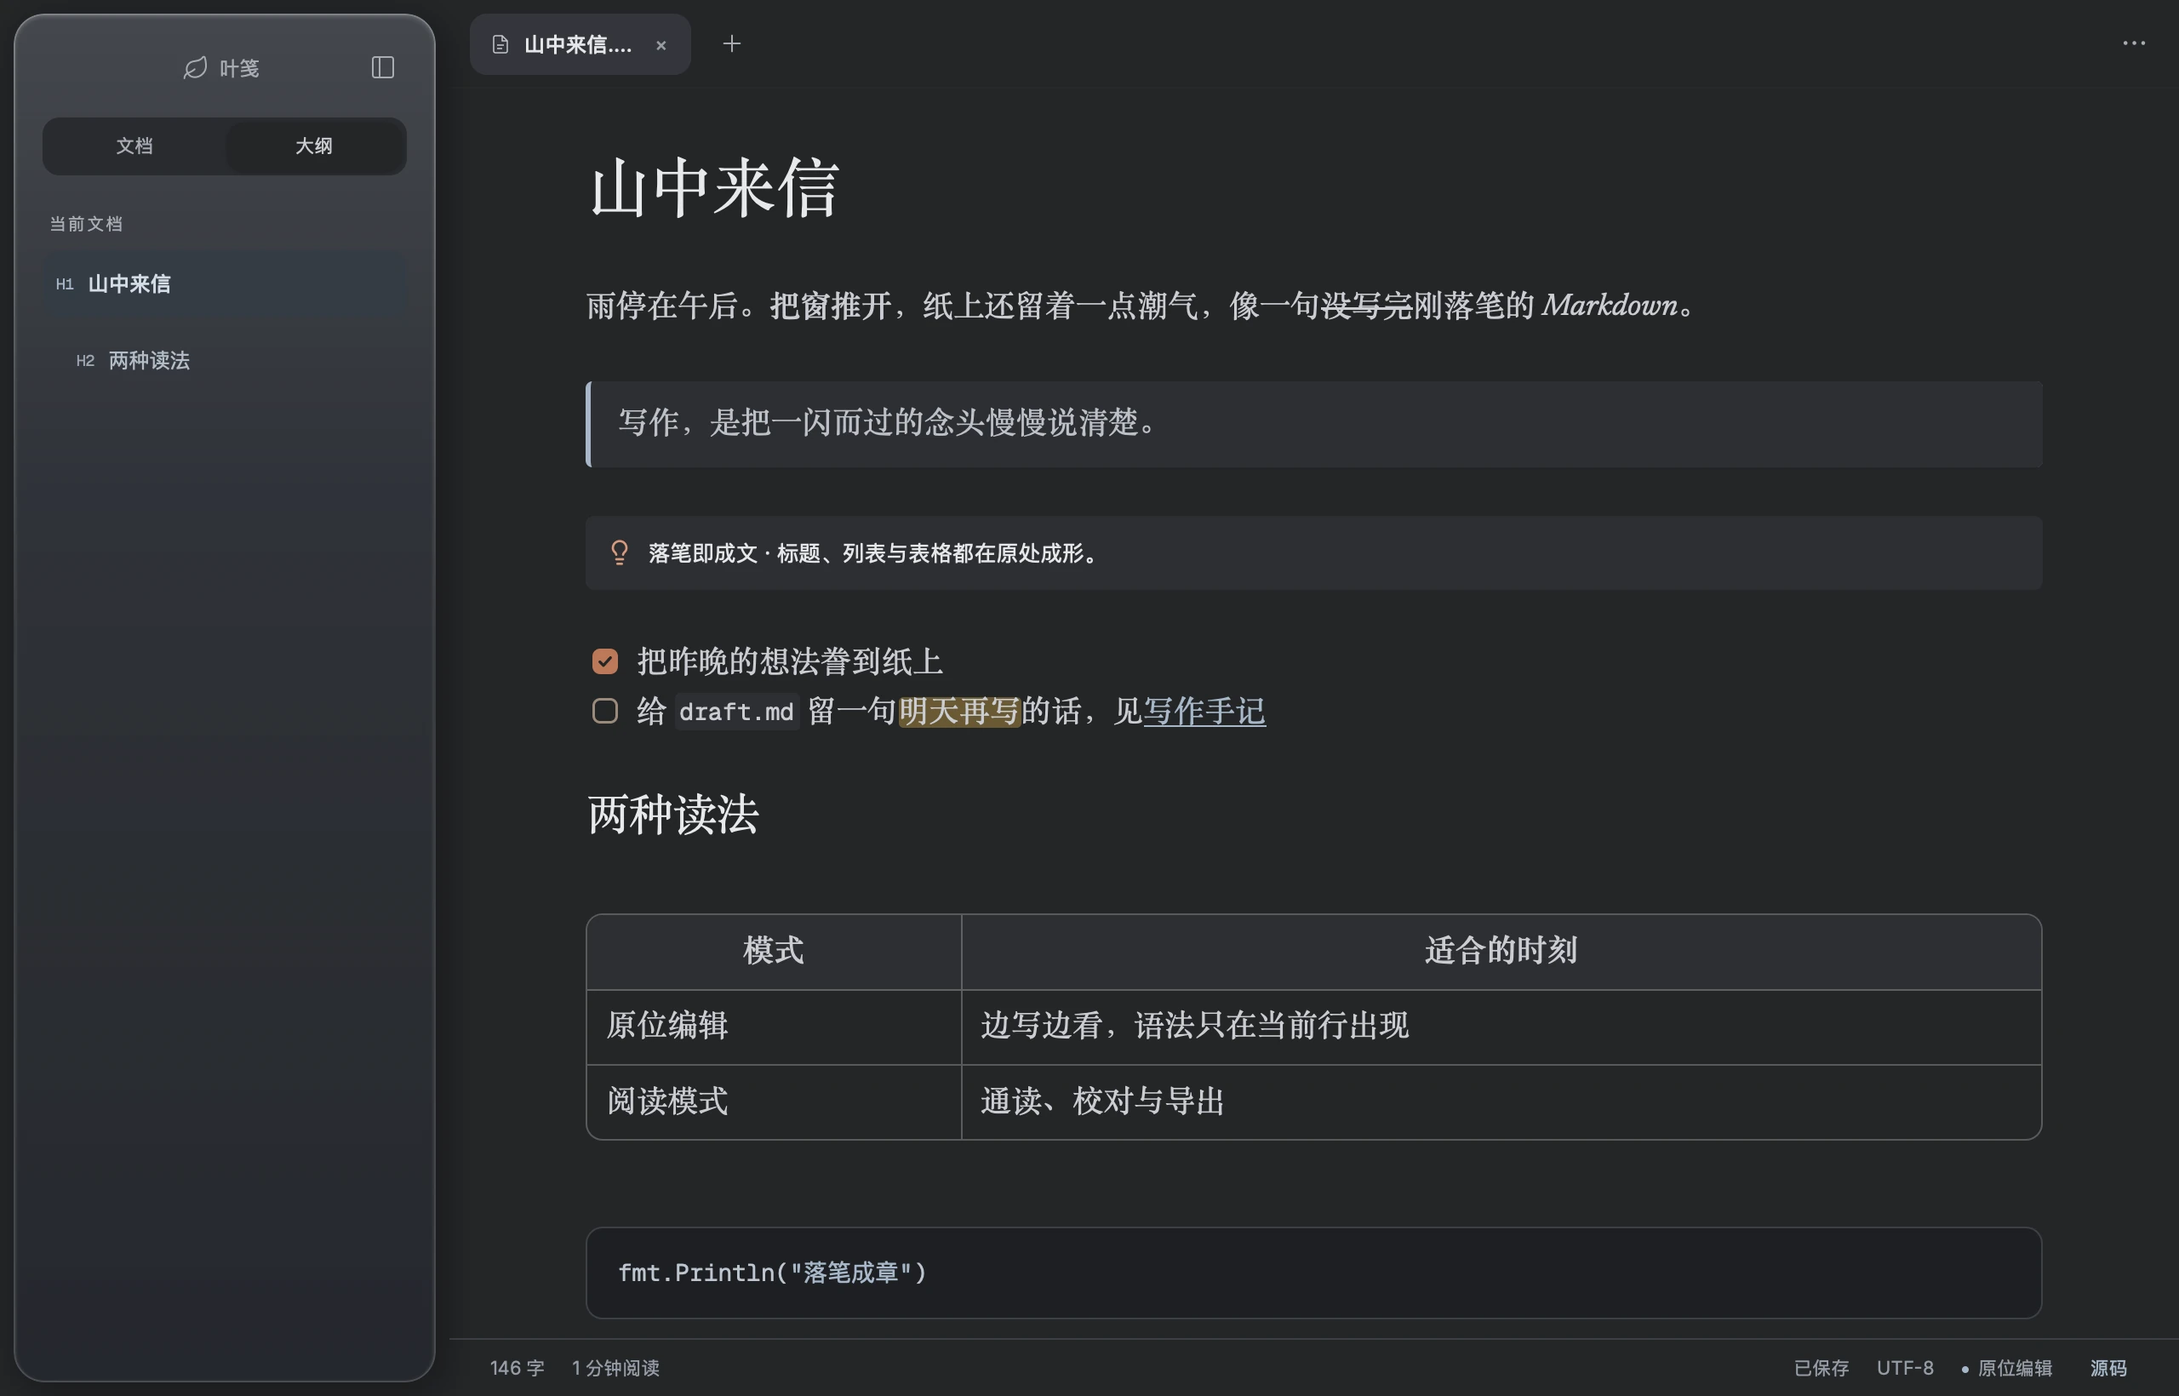
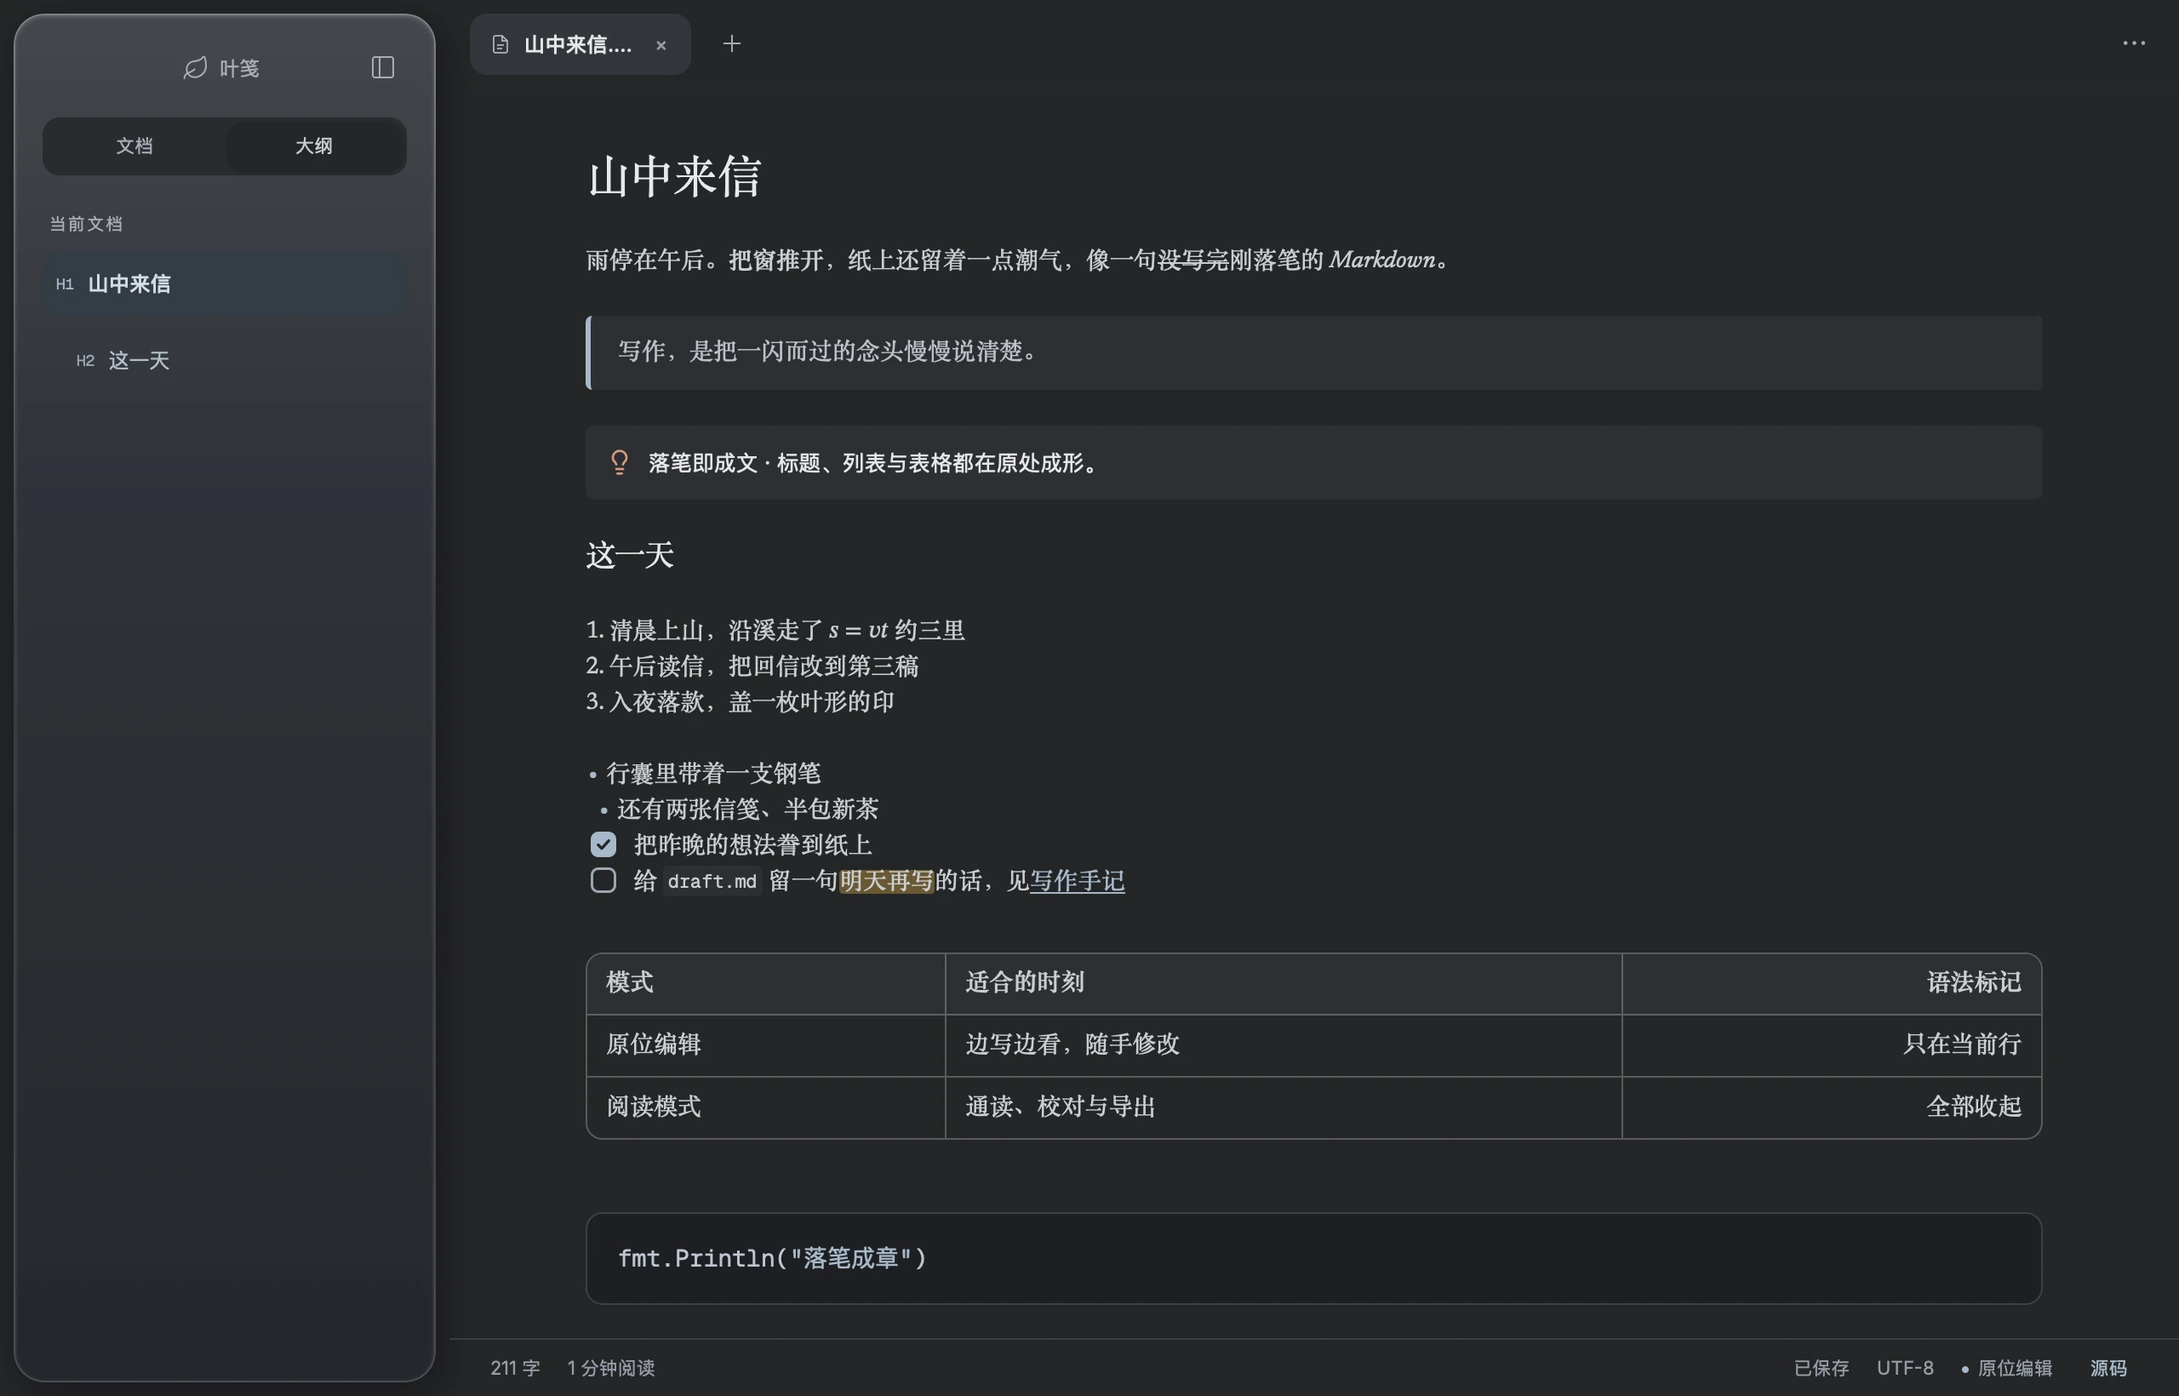
feat: 官网首页增加落叶与滚动动效并统一浅深主题标题字号
- 首屏增加飘落的叶片、枝条轻摆，应用窗口随滚动由后仰放平
- 首屏与正文之间增加通栏的 Markdown 语法滚动带
- 深色主题的标题比例与浅色一致，切换主题时版面不再位移
- 示例文档补充有序列表、嵌套列表、行内公式与上标，官网截图改用 14 号字重新截取
- 截图前循环关闭多余标签页并断言只剩示例文档

diff --git a/site/styles.css b/site/styles.css
@@ -105,6 +105,21 @@ h3 { font: 500 20px/1.4 var(--serif); color: var(--ink); letter-spacing: .01em; 
 .drift-a { width: 46px; left: max(12px, calc((100vw - 1180px) / 2 - 76px)); top: 430px; rotate: -24deg; }
 .drift-b { width: 40px; left: 47%; top: 118px; rotate: 38deg; }
 
+/* 落叶：自枝头缓缓飘下，在窗口上方淡出；位于文字与窗口之后。 */
+.hero-branch { transform-origin: 100% 0; animation: branch-sway 9s ease-in-out infinite alternate; }
+@keyframes branch-sway { from { rotate: -.7deg; } to { rotate: .9deg; } }
+.leaffall { position: absolute; inset: 0; overflow: hidden; pointer-events: none; }
+.leaffall img {
+  position: absolute; top: -90px; left: var(--x); width: var(--w); opacity: 0; filter: drop-shadow(0 8px 10px #54402a2e); will-change: transform, translate;
+  animation: leaf-fall var(--t) linear var(--dl) infinite, leaf-sway calc(var(--t) / 3.6) ease-in-out var(--dl) infinite alternate;
+}
+@keyframes leaf-fall {
+  0% { translate: 0 0; rotate: 0deg; opacity: 0; }
+  8%, 76% { opacity: .9; }
+  100% { translate: 0 1000px; rotate: var(--spin); opacity: 0; }
+}
+@keyframes leaf-sway { from { transform: translateX(calc(var(--sway) * -1)); } to { transform: translateX(var(--sway)); } }
+
 .hero-top { position: relative; display: grid; grid-template-columns: minmax(0, 1fr) auto; gap: 40px; align-items: start; }
 .eyebrow { display: flex; align-items: center; gap: 10px; font: 500 13.5px/1 var(--sans); letter-spacing: .16em; color: var(--muted); }
 .eyebrow .mk { letter-spacing: 0; font-size: 15px; }
@@ -137,6 +152,9 @@ h3 { font: 500 20px/1.4 var(--serif); color: var(--ink); letter-spacing: .01em; 
   border-radius: 2.031% / 3.171%; container-type: inline-size; background: #faf9f5;
   box-shadow: 0 0 0 1px #6e5a4329, 0 2px 4px #54402a14, 0 24px 48px -18px #54402a47, 0 60px 110px -40px #54402a59;
 }
+/* 首屏窗口起初微微后仰，随滚动放平；--tilt 由脚本按窗口在视口中的位置写入。 */
+.hero-stage { perspective: 1800px; }
+#hero-window .window-screen { transform-origin: 50% 100%; transform: rotateX(calc(var(--tilt, 0) * 10deg)) scale(calc(1 - var(--tilt, 0) * .045)); will-change: transform; }
 .shot { width: 100%; }
 .shot-dark { position: absolute; inset: 0; height: 100%; }
 .shot-dark { opacity: 0; transition: opacity .5s var(--ease); }
@@ -147,6 +165,18 @@ h3 { font: 500 20px/1.4 var(--serif); color: var(--ink); letter-spacing: .01em; 
 .lights i:nth-child(2) { background: #febc2e; }
 .lights i:nth-child(3) { background: #28c840; }
 .window-caption { display: flex; align-items: center; justify-content: space-between; gap: 16px; margin-top: 18px; font: 400 13px/1.4 var(--mono); color: var(--muted); }
+
+/* 通栏语法带：自动缓行，滚动页面时再推一把。 */
+.ribbon {
+  margin-top: clamp(80px, 10vw, 136px); padding: 20px 0; overflow: hidden; border-block: 1px solid var(--line);
+  -webkit-mask-image: linear-gradient(90deg, transparent, #000 10%, #000 90%, transparent); mask-image: linear-gradient(90deg, transparent, #000 10%, #000 90%, transparent);
+}
+.ribbon-track { display: flex; width: max-content; will-change: transform, translate; }
+.ribbon-track.run { animation: ribbon 60s linear infinite; }
+.ribbon-track span { display: inline-flex; align-items: baseline; gap: 12px; padding-right: clamp(40px, 5vw, 72px); font: 400 clamp(20px, 2.3vw, 30px)/1.3 var(--serif); letter-spacing: .04em; color: var(--ink-2); white-space: nowrap; }
+.ribbon-track .mk { font-size: .56em; font-style: normal; letter-spacing: 0; }
+@keyframes ribbon { to { transform: translateX(calc(-100% / 3)); } }
+.ribbon + .section { padding-top: clamp(80px, 10vw, 136px); }
 
 /* 段落 */
 .section { padding: clamp(96px, 12vw, 168px) 0 0; }
@@ -370,7 +400,7 @@ kbd[data-mod], kbd[data-shift] { font-family: var(--sans); font-size: 14px; }
   .wrap { width: min(1180px, 100% - 36px); }
   .hero { padding-top: 112px; }
   .hero-branch { width: 68vw; right: -110px; top: 20px; opacity: .5; }
-  .drift { display: none; }
+  .drift, .leaffall { display: none; }
   .hero-title { margin: 24px 0 26px; }
   .hero-title .accent { padding-left: 0; }
   .hero-stage { margin-top: 52px; }
@@ -399,7 +429,8 @@ kbd[data-mod], kbd[data-shift] { font-family: var(--sans); font-size: 14px; }
 
 @media (prefers-reduced-motion: reduce) {
   html { scroll-behavior: auto; }
-  .rise, .caret, .hint-arrow, .dl.active::after { animation: none; }
+  .rise, .caret, .hint-arrow, .dl.active::after, .hero-branch, .ribbon-track.run { animation: none; }
+  .leaffall { display: none; }
   .js .reveal { opacity: 1; transform: none; transition: none; }
   .btn, .card, .dl-card { transition: none; }
 }

diff --git a/site/index.html b/site/index.html
@@ -48,6 +48,14 @@
       <img class="hero-branch" src="assets/img/branch.webp" alt="" width="1211" height="1237" data-parallax="-0.06" />
       <img class="drift drift-a" src="assets/img/leaf-8.webp" alt="" width="138" height="208" data-parallax="0.18" />
       <img class="drift drift-b" src="assets/img/leaf-9.webp" alt="" width="144" height="139" data-parallax="0.3" />
+      <div class="leaffall" aria-hidden="true">
+        <img src="assets/img/leaf-9.webp" alt="" width="144" height="139" style="--x: 57%; --w: 30px; --t: 19s; --dl: -4s; --sway: 46px; --spin: 250deg" />
+        <img src="assets/img/leaf-8.webp" alt="" width="138" height="208" style="--x: 71%; --w: 24px; --t: 24s; --dl: -15s; --sway: 64px; --spin: -190deg" />
+        <img src="assets/img/leaf-7.webp" alt="" width="168" height="210" style="--x: 84%; --w: 28px; --t: 21s; --dl: -9s; --sway: 38px; --spin: 160deg" />
+        <img src="assets/img/leaf-6.webp" alt="" width="239" height="165" style="--x: 93%; --w: 36px; --t: 27s; --dl: -20s; --sway: 54px; --spin: -230deg" />
+        <img src="assets/img/leaf-9.webp" alt="" width="144" height="139" style="--x: 64%; --w: 20px; --t: 30s; --dl: -12s; --sway: 70px; --spin: 300deg" />
+        <img src="assets/img/leaf-8.webp" alt="" width="138" height="208" style="--x: 6%; --w: 22px; --t: 26s; --dl: -1s; --sway: 30px; --spin: 210deg" />
+      </div>
 
       <div class="wrap hero-top">
         <div class="hero-copy">
@@ -88,6 +96,11 @@
         </figure>
       </div>
     </section>
+
+    <!-- 通栏：Markdown 语法缓缓流过 -->
+    <div class="ribbon" id="ribbon" aria-hidden="true">
+      <div class="ribbon-track"><span><i class="mk">#</i>标题</span><span><i class="mk">**</i>加粗</span><span><i class="mk">&gt;</i>引用</span><span><i class="mk">- [x]</i>任务列表</span><span><i class="mk">1.</i>有序列表</span><span><i class="mk">|</i>表格</span><span><i class="mk">```</i>代码块</span><span><i class="mk">$$</i>公式</span><span><i class="mk">==</i>高亮</span><span><i class="mk">[^1]</i>脚注</span><span><i class="mk">&gt; [!tip]</i>提示块</span><span><i class="mk">[ ]( )</i>链接</span><span><i class="mk">```mermaid</i>图形</span></div>
+    </div>
 
     <!-- 01 原位编辑 -->
     <section class="section" id="live">

diff --git a/tests/markdown/samples.test.ts b/tests/markdown/samples.test.ts
@@ -15,17 +15,17 @@ function render(name: string) {
 }
 
 describe("示例文档", () => {
-  test("山中来信：行内样式、引用、提示块、任务列表、表格与代码块", () => {
+  test("山中来信：行内样式、引用、提示块、列表、公式、表格与代码块", () => {
     const body = render("山中来信.md");
-    for (const selector of ["h1", "h2", "strong", "em", "s", "blockquote:not(.callout)", "blockquote.callout", "li code", "mark", "a[href]", "table", "pre code.language-go"]) {
+    for (const selector of ["h1", "h2", "strong", "em", "s", "blockquote:not(.callout)", "blockquote.callout", "ol > li math", "ul ul > li", "li code", "mark", "a[href]", "table", "pre code.language-go"]) {
       expect(body.querySelector(selector), selector).not.toBeNull();
     }
     const boxes = [...body.querySelectorAll<HTMLInputElement>("li.task-list-item input[type=checkbox]")];
     expect(boxes.map(box => box.checked)).toEqual([true, false]);
   });
-  test("叶脉笔记：提示块、公式、下标、高亮、图形与对齐表格", () => {
+  test("叶脉笔记：提示块、公式、上下标、高亮、图形、对齐表格与有序列表", () => {
     const body = render("叶脉笔记.md");
-    for (const selector of ["h1", "h2", "blockquote.callout", "math", 'math[display="block"]', "sub", "mark", "p code", "a[href]", "pre code.language-mermaid", "table"]) {
+    for (const selector of ["h1", "h2", "blockquote.callout", "math", 'math[display="block"]', "sub", "mark", "p code", "a[href]", "pre code.language-mermaid", "table", "ol > li sup"]) {
       expect(body.querySelector(selector), selector).not.toBeNull();
     }
     expect([...body.querySelectorAll("th")].map(cell => cell.getAttribute("align") ?? cell.style.textAlign)).toEqual(["left", "left", "right"]);

diff --git a/site/main.js b/site/main.js
@@ -26,9 +26,16 @@
     reveals.forEach(node => node.classList.add("in"));
   }
 
-  // 叶片视差：只在滚动时按帧更新。
+  // 滚动动效：叶片视差、首屏窗口放平、通栏语法带随滚动推移；只在滚动时按帧更新。
   const drifting = $$("[data-parallax]");
-  if (drifting.length && !reducedMotion) {
+  const tilting = $("#hero-window");
+  const ribbon = $("#ribbon");
+  const track = $(".ribbon-track", ribbon);
+  if (!reducedMotion) {
+    // 语法带复制两份首尾相接，循环滚动时不露出空白。
+    const items = [...track.children];
+    for (let copy = 0; copy < 2; copy++) items.forEach(item => track.append(item.cloneNode(true)));
+    track.classList.add("run");
     let queued = false;
     const update = () => {
       queued = false;
@@ -41,8 +48,15 @@
         node.dataset.offset = offset.toFixed(1);
         node.style.translate = `0 ${offset.toFixed(1)}px`;
       }
+      // 窗口顶边从视口下沿升到三分之一处的过程中，由后仰逐渐放平。
+      const top = tilting.getBoundingClientRect().top;
+      const tilt = Math.min(1, Math.max(0, (top - innerHeight * 0.32) / (innerHeight * 0.6)));
+      tilting.style.setProperty("--tilt", tilt.toFixed(3));
+      const band = ribbon.getBoundingClientRect();
+      if (band.bottom > 0 && band.top < innerHeight) track.style.translate = `${((band.top - innerHeight) * 0.16).toFixed(1)}px 0`;
     };
     addEventListener("scroll", () => { if (!queued) { queued = true; requestAnimationFrame(update); } }, { passive: true });
+    addEventListener("resize", update);
     update();
   }
 

diff --git a/src/app/style.css b/src/app/style.css
@@ -4,6 +4,7 @@
   --control-radius: 10px;
   font-family: "Inter", -apple-system, BlinkMacSystemFont, "Segoe UI", sans-serif;
   --paper: #faf9f5; --ink: #47423c; --heading: #302e2b; --muted: #797168; --quote: #77695e; --line: #e8e1d7;
+  /* 标题相对正文的比例，浅深主题共用，切换主题时版面不位移。 */
   --heading-1: 1.888889; --heading-2: 1.277778; --heading-3: 1.055556;
   --code-surface: #f3f0e9; --code-ink: #64574b; --code-muted: #857c72;
   --accent: #bd7858; --highlight: #f3e8dd; --surface: #f1eee6;
@@ -21,7 +22,6 @@
 :root[data-theme="dark"] {
   color-scheme: dark;
   --paper: #242527; --ink: #cbcdd3; --heading: #e8e9ec; --muted: #a9adb5; --quote: #bdc0c8; --line: #3d4046;
-  --heading-1: 2.111111; --heading-2: 1.444444; --heading-3: 1.222222;
   --code-surface: #1e2023; --code-ink: #bec6d2; --code-muted: #959ca9;
   --accent: #a6b7c8; --highlight: #343b44; --surface: #2d2f33;
   --callout-bg: #2d2f33; --callout-ink: #e5e6e9; --callout-accent: #d99a7c;

diff --git a/internal/desktop/verification_shots.go b/internal/desktop/verification_shots.go
@@ -44,7 +44,11 @@ func captureSiteShots(win *mygo.Window, eval func(string) (any, error), mode str
 	}
 	win.SetContentSize(1280, 820)
 	// 只保留示例文档一个标签页。
-	if _, err := eval(`const tab=[...document.querySelectorAll('.file-tab')].find(t=>!t.classList.contains('active')); tab?.querySelector('.close-tab').click(); await new Promise(r=>setTimeout(r,400)); return true;`); err != nil {
+	if _, err := eval(`for(let i=0;i<20;i++){ const tab=[...document.querySelectorAll('.file-tab')].find(t=>!t.classList.contains('active')); if(!tab) break; tab.querySelector('.close-tab').click(); await new Promise(r=>setTimeout(r,300)); } if(document.querySelectorAll('.file-tab').length!==1) throw Error('仍有多余的标签页'); return true;`); err != nil {
+		return err
+	}
+	// 截图在官网上会缩小展示，正文取设置中的 14 号字与 1.5 倍行高，一屏容纳更多内容。
+	if _, err := eval(`document.documentElement.style.setProperty('--editor-size','14px'); document.documentElement.style.setProperty('--editor-line-height','1.5'); window.leafmarkVerification.editor.requestMeasure(); return true;`); err != nil {
 		return err
 	}
 	time.Sleep(800 * time.Millisecond)

diff --git a/README.md b/README.md
@@ -177,7 +177,7 @@ python3 -m http.server 4173 -d site
 ```
 
 - 版本号和安装包直链在浏览器中从最新 Release 读取，发布新版本后无需修改官网；安装包文件名需保持 `darwin-arm64.dmg`、`windows-amd64.exe` 这类结尾。
-- `site/assets/img/app-*.webp` 是应用窗口内容在 1280×820、二倍像素密度下的截图，左上角的窗口控制按钮由样式补画。界面改版后运行 `bun run shots:site` 重新截取：它在真实 macOS 窗口中打开 `tests/fixtures/samples/` 下的示例文档（`山中来信.md` 截原位编辑，`叶脉笔记.md` 截阅读模式），浅色、深色各截一张并转为 WebP，需要本机装有 `cwebp`。
+- `site/assets/img/app-*.webp` 是应用窗口内容在 1280×820、二倍像素密度下的截图，左上角的窗口控制按钮由样式补画。界面改版后运行 `bun run shots:site` 重新截取：它在真实 macOS 窗口中打开 `tests/fixtures/samples/` 下的示例文档（`山中来信.md` 截原位编辑，`叶脉笔记.md` 截阅读模式），正文按 14 号字、1.5 倍行高排版，浅色、深色各截一张并转为 WebP，需要本机装有 `cwebp`。
 
 ## 许可证
 

diff --git a/tests/fixtures/samples/山中来信.md b/tests/fixtures/samples/山中来信.md
@@ -6,15 +6,21 @@
 
 > [!tip] 落笔即成文 · 标题、列表与表格都在原处成形。
 
+## 这一天
+
+1. 清晨上山，沿溪走了 $s = vt$ 约三里
+2. 午后读信，把回信改到第三稿
+3. 入夜落款，盖一枚叶形的印
+
+- 行囊里带着一支钢笔
+  - 还有两张信笺、半包新茶
 - [x] 把昨晚的想法誊到纸上
 - [ ] 给 `draft.md` 留一句==明天再写==的话，见[写作手记](https://example.com/notes)
 
-## 两种读法
-
-| 模式 | 适合的时刻 |
-| --- | --- |
-| 原位编辑 | 边写边看，语法只在当前行出现 |
-| 阅读模式 | 通读、校对与导出 |
+| 模式 | 适合的时刻 | 语法标记 |
+| :--- | :--- | ---: |
+| 原位编辑 | 边写边看，随手修改 | 只在当前行 |
+| 阅读模式 | 通读、校对与导出 | 全部收起 |
 
 ```go
 fmt.Println("落笔成章")

diff --git a/tests/fixtures/samples/叶脉笔记.md b/tests/fixtures/samples/叶脉笔记.md
@@ -24,3 +24,7 @@ graph LR
 | :--- | :--- | ---: |
 | 主脉 | 输送与支撑 | 1 条 |
 | 侧脉 | 向两侧分流 | 6–12 对 |
+
+1. 取一片新叶，对着窗光看
+2. 沿主脉数出侧脉的对数
+3. 记下叶面积，约 12 cm^2^
